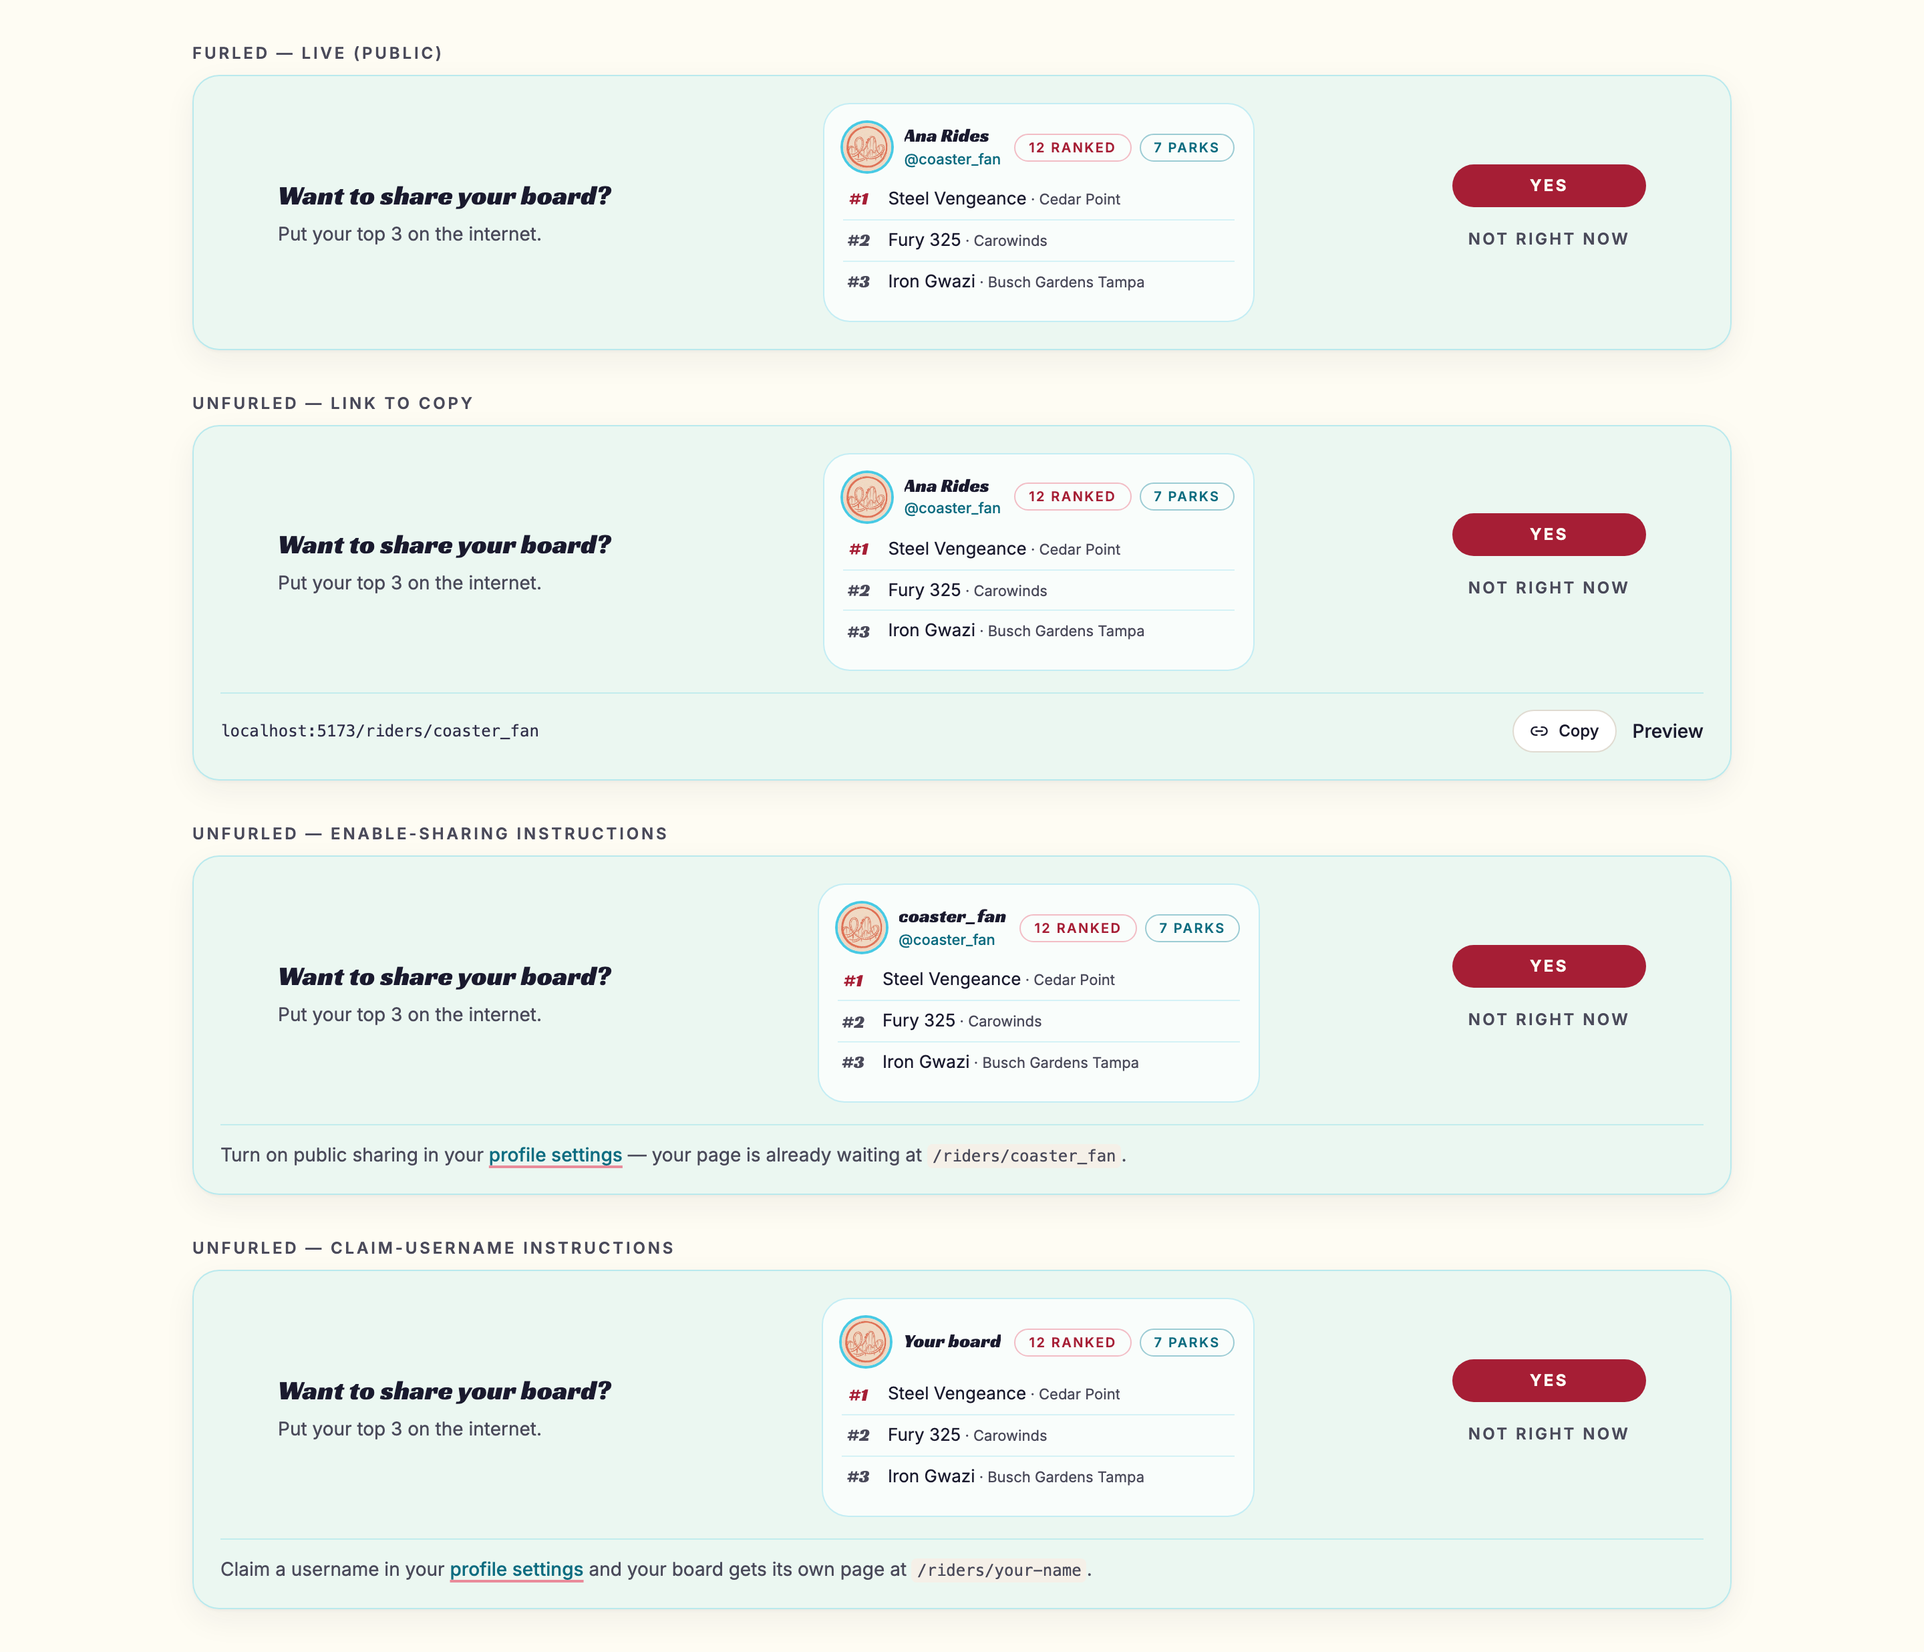
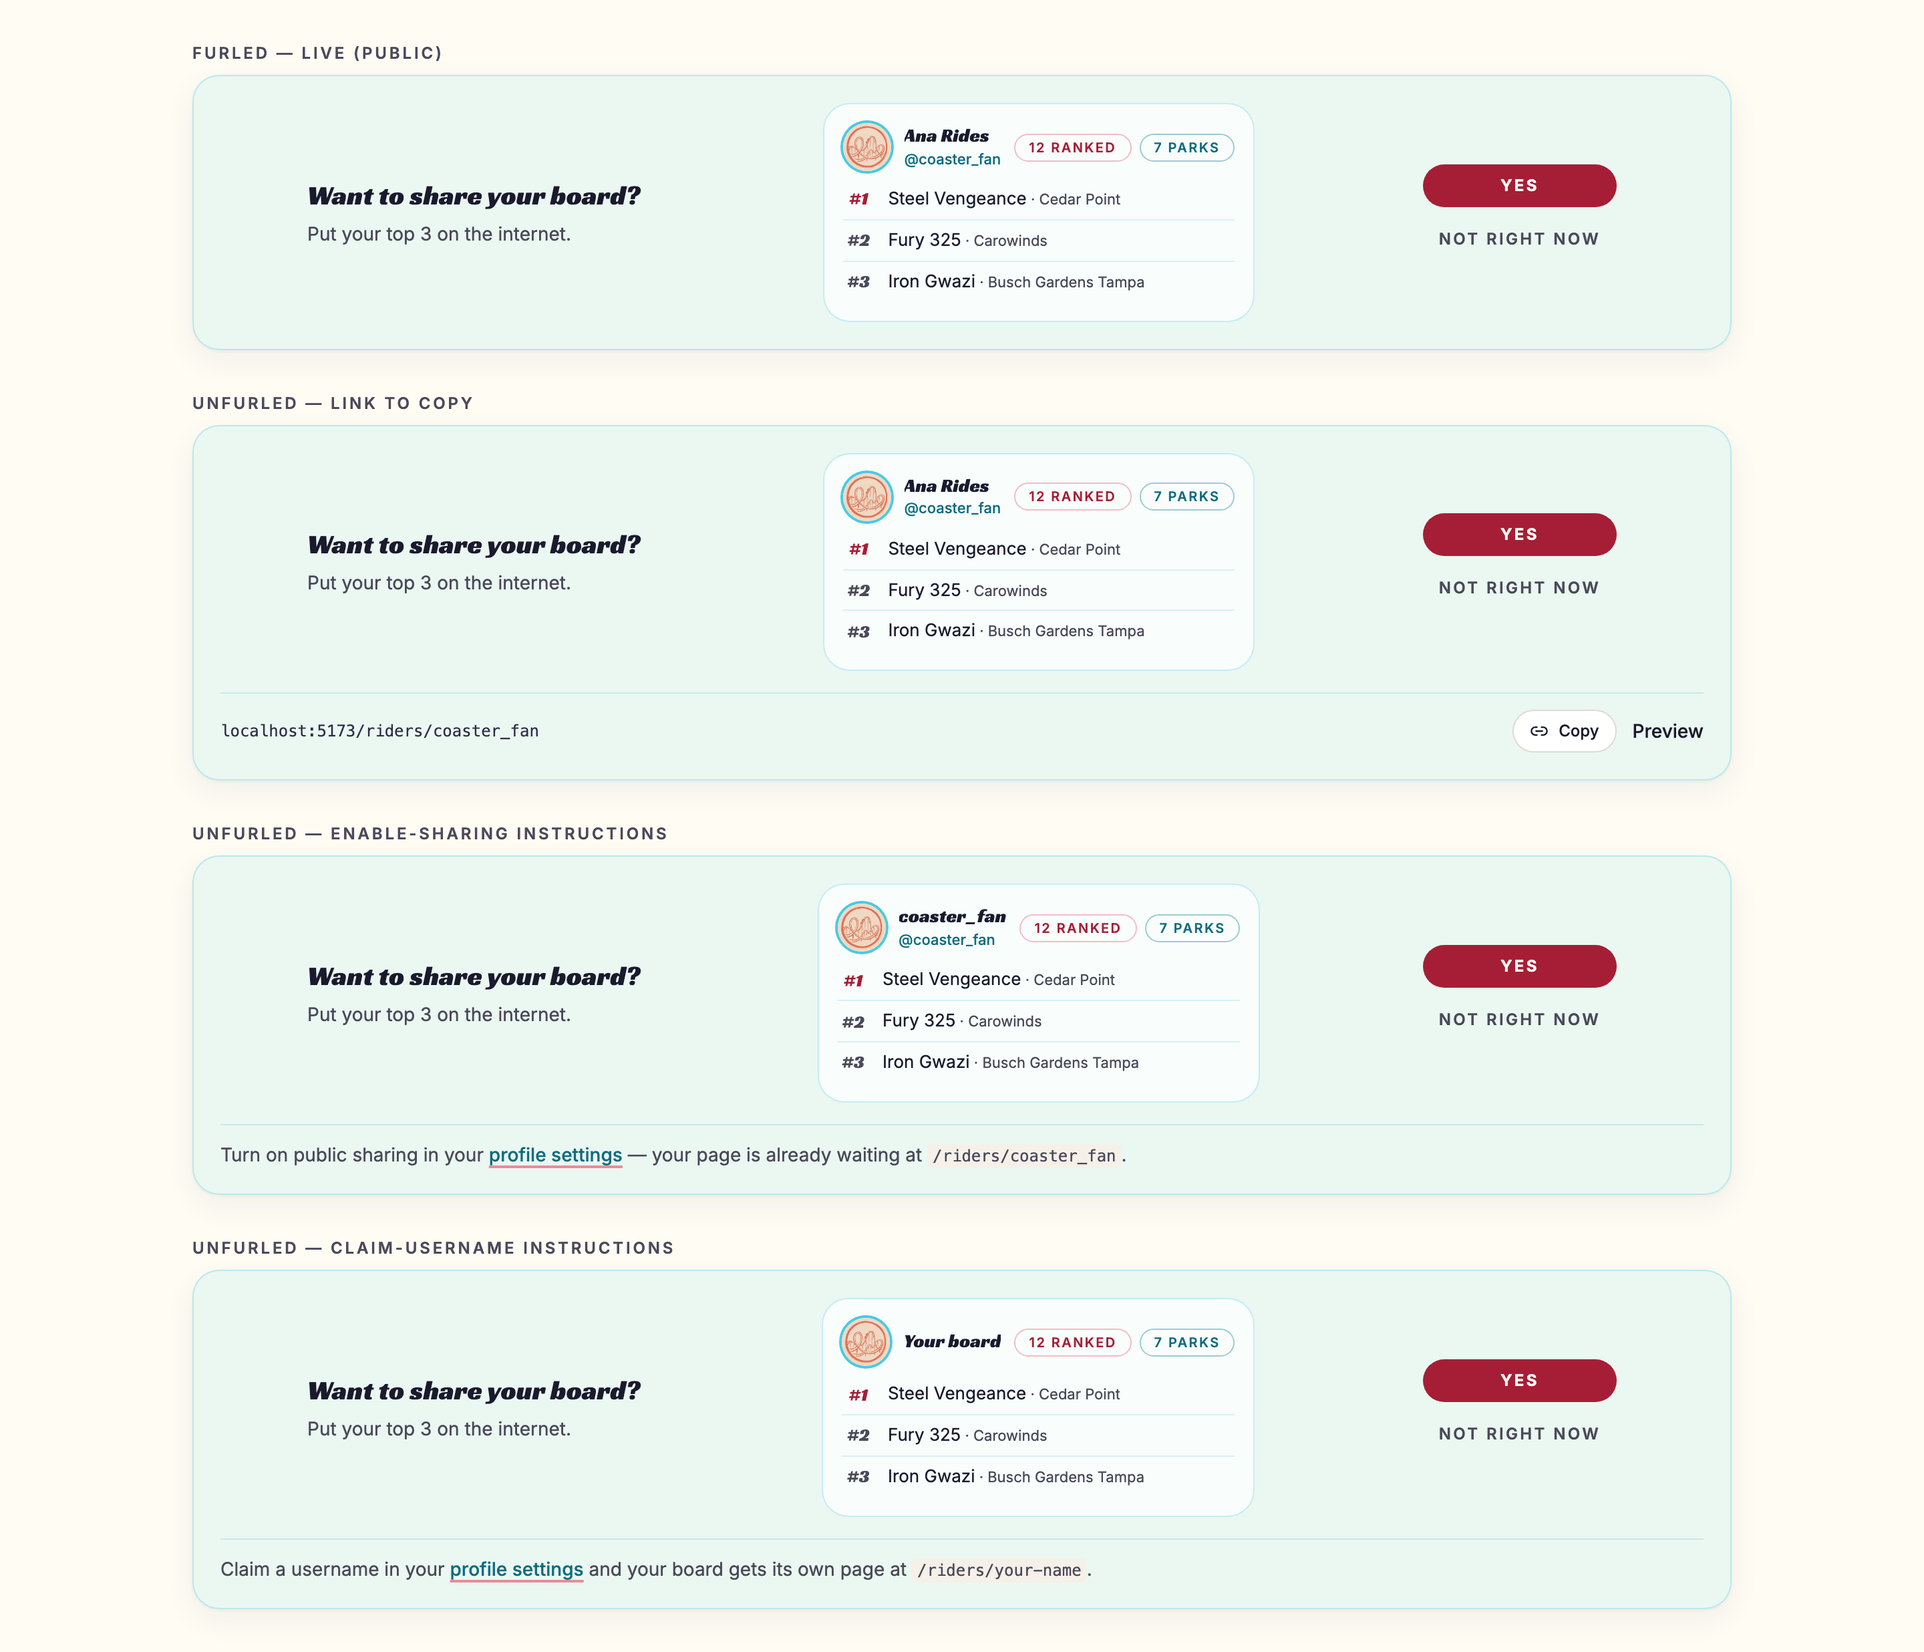
style: tighten share-nudge column gutters ~15%
Cluster cap max-w-5xl (1024px) -> max-w-[980px]: measured gutters go
148px -> 126px each, still perfectly even. Mobile unaffected (cap can't
bind below 980px viewports). Preview shots refreshed.

diff --git a/app/src/components/ShareNudgeBanner.tsx b/app/src/components/ShareNudgeBanner.tsx
@@ -66,7 +66,7 @@ export default function ShareNudgeBanner({
           remainder evenly across the two gutters. Columns stay content-width
           (no flex-1 growth) and shrink gracefully below the cap; mobile
           stacks unwrapped and keeps the rows directly on the tint. */}
-      <div className="mx-auto flex w-full max-w-5xl flex-wrap items-center justify-between gap-x-5 gap-y-4">
+      <div className="mx-auto flex w-full max-w-[980px] flex-wrap items-center justify-between gap-x-5 gap-y-4">
         <div className="min-w-0 flex-1 basis-52 sm:w-[260px] sm:flex-none">
           <p className="display-heading text-xl leading-tight text-ink">
             Want to share your board?

diff --git a/docs/PLAN.md b/docs/PLAN.md
@@ -32,7 +32,7 @@ A multi-user webapp where users rank the roller coasters they've ridden, and eve
 | Board meta + homepage rework (2026-09) | `/api/ranking` gains `last_recomputed_at` + `real_user_count` via a new `public_board_meta()` security-definer RPC (aggregate-only, anon-granted like `ranked_user_count()`; source: `cron_execution_logs` success row + profiles minus admins minus synthetic). Homepage: lockup scaled ~12%, TrackLine removed, status line always-rendered with skeletons (CLS slot `min-h-[60vh|65vh]`), gated user count (>50, desktop-only), `Live ●` popunder (hover shows / click pins; `last_recomputed_at` preferred), plain `About` link → `/about` stub, table rework (Country column dropped, GCI/CCI acronyms, white rank circles with display-font accent numerals + ink drop shadow on every rank, muted coral podium ramp 0.05/0.03/0.015, ~5% denser rows desktop+mobile, accent-tint rounded score pill, both layouts CSS-gated). Remaining open call: hero line placement A/B (mocked on the design board `/design.html`, dev-only). | Worker holds only the anon key (profiles/cron logs are RLS-locked; `coaster_ratings.updated_at` is first-insert stale), so one aggregate RPC is the only clean source; UI rework tracked as the homepage punchlist (§1–§8), final calls decided 2026-09-05. |
 | Full About + FAQ pages (2026-09) | `/about` rewritten from stub to full copy: open-source framing, layperson Bradley–Terry explainer (head-to-heads not stars, 100 = community average, per-rider influence normalization), personal backstory (VoteCoasters credit + link, "weekend project" gag), contribution asks (code/data/riding), `— pandeiro` handle sign-off. New `/faq` route (8 starter Q&As) linked from About + footer. Opt-in math disclosures (`MathDisclosure` component): collapsed by default, first open lazy-`import()`s **KaTeX** (+CSS/fonts) via a dynamic chunk — zero main-bundle cost; two inserts cover the BT probability model + MM update with anchor/λ rationale (from `packages/bt/src/mm.ts`) and the per-user weighting `w = 1/(n(n-1)/2)`; display equations sit in boxed rows that stack via `aligned` so 390px viewports don't clip. Tests assert collapsed default + lazy KaTeX render. | Normies get the plain-English story; the math is one sigma-pill click away. KaTeX over MathJax for bundle weight; disclosure content mirrors the real fit (not a simplified variant) so it can't drift from `packages/bt`. Deeper math treatment stays reserved for a future GH wiki page. |
 | Ranking-milestone share CTAs (2026-09, **removed**) | The 5/10-ranked milestone share CTAs on `/me` (`ShareListCard` + `lib/share-cta.ts`, per-milestone localStorage dismissal) are **scrapped** — `/me` stays a pure ranking surface. Share discovery remains where it belongs: `/me/profile` (URL display + copy link + opt-in toggle; `CopyLinkButton` extracted to its own component). Replaced days later by the idle-settled banner (next row) once the placement was rethought. | Just gets in the way on the primary ranking surface and doesn't drive shares; milestone framing ("5 ranked!") felt gamified-noisy rather than useful. |
-| Share nudge v2: idle-settled banner (2026-09) | A subtle, dismissible banner above the `/me` list — ONE small light accent-blue card (`bg-accent/10`, plain div not `Panel`, whose `bg-surface-bright` would win the cascade) laid out as **three tight columns**: ① the **"Want to share your board?"** question + one-line tagline ("Put your top 3 on the internet."), ② a **condensed skeleton of the rider share page** (cyan-ringed avatar, display-font name, cyan @handle, `N ranked` coral / `N parks` cyan outline pills, top-3 rows single-line with inline park names — park names ride along in the existing `useMyRides` embed via `parks(name, country)`; Racing Sans One `#N` ranks, `#1` coral, #2/#3 muted) in its own outlined sub-card on desktop (`sm:border-accent/30 sm:bg-surface-bright/70`, mobile rows stay directly on the tint) to keep banner height constrained; the three columns form a centered `max-w-5xl` cluster on desktop (`justify-between` + content-width columns) so the two gutters split evenly (~150px each) instead of pooling as one dead zone right of the question, ③ **YES** (crimson pill) / **NOT RIGHT NOW** (ghost, dismisses). YES **unfurls** (animated `animate-unfurl`) a full-width divider row: the rider URL as plain protocol-stripped mono text + Copy (full URL) + Preview when public, else profile-settings instructions ("Turn on public sharing… your page is already waiting at `/riders/{username}`"); the no-username branch stays inside the same unfurl (signup collects a username, but `handle_new_user()` deliberately falls back to `username = NULL` on unique-violation signup races — those users claim later). On mobile only, the banner renders between the page title and the full-width Import list button (flex-wrap ordering), keeping Import adjacent to the search/ranking machinery; desktop keeps Import top-right. Eligibility is ONE server-side RPC, `share_nudge_eligibility()`, called only at the My Coasters mount (never the board or coaster/park detail pages, never a modal on load): `profiles.share_nudge_shown_at IS NULL` AND ranked_count ≥ 5 (floor — nobody's "settled" this early) AND last ranked-ride edit ≥ 48h idle (settled, not mid-session tweaking). The RPC decides AND claims atomically — claim is `UPDATE profiles SET share_nudge_shown_at = now() WHERE id = auth.uid() AND share_nudge_shown_at IS NULL`, returning `found` as `eligible`, so multi-tab/multi-mount races collapse to exactly one banner ever. Dismiss is session-local UI state; no "dismissed" write exists. Data: one nullable column `profiles.share_nudge_shown_at`, written only by the RPC (deliberately kept off the client update-column whitelist). `user_rides.updated_at` was UPDATE-trigger-only (rank changes), leaving imported/once-ranked rows NULL forever → the trigger now stamps INSERTs too, plus a one-time backfill (`update user_rides set updated_at = now() where updated_at is null`) whose `now()` baseline is an honest conservative floor (long-idle lists become eligible ~48h post-deploy, nobody is misclassified as recently active). Client: `useShareNudge` (`staleTime: Infinity` — repeat mounts reuse the session's verdict instead of re-calling the claiming RPC). | The milestone card got in the way; idle ≥48h targets "settled" riders and never interrupts an active session; one-shot + local dismiss keeps it subtle; the single accent-blue card borrows the OG card's composition (identity / top rows / url) at banner scale as a YES-gated preview, so the nudge advertises what sharing actually looks like without occupying the page. SCHEMA.md must be regenerated post-merge (generator reads the live DB). |
+| Share nudge v2: idle-settled banner (2026-09) | A subtle, dismissible banner above the `/me` list — ONE small light accent-blue card (`bg-accent/10`, plain div not `Panel`, whose `bg-surface-bright` would win the cascade) laid out as **three tight columns**: ① the **"Want to share your board?"** question + one-line tagline ("Put your top 3 on the internet."), ② a **condensed skeleton of the rider share page** (cyan-ringed avatar, display-font name, cyan @handle, `N ranked` coral / `N parks` cyan outline pills, top-3 rows single-line with inline park names — park names ride along in the existing `useMyRides` embed via `parks(name, country)`; Racing Sans One `#N` ranks, `#1` coral, #2/#3 muted) in its own outlined sub-card on desktop (`sm:border-accent/30 sm:bg-surface-bright/70`, mobile rows stay directly on the tint) to keep banner height constrained; the three columns form a centered `max-w-5xl` cluster on desktop (`justify-between` + content-width columns) so the two gutters split evenly (~125px each) instead of pooling as one dead zone right of the question, ③ **YES** (crimson pill) / **NOT RIGHT NOW** (ghost, dismisses). YES **unfurls** (animated `animate-unfurl`) a full-width divider row: the rider URL as plain protocol-stripped mono text + Copy (full URL) + Preview when public, else profile-settings instructions ("Turn on public sharing… your page is already waiting at `/riders/{username}`"); the no-username branch stays inside the same unfurl (signup collects a username, but `handle_new_user()` deliberately falls back to `username = NULL` on unique-violation signup races — those users claim later). On mobile only, the banner renders between the page title and the full-width Import list button (flex-wrap ordering), keeping Import adjacent to the search/ranking machinery; desktop keeps Import top-right. Eligibility is ONE server-side RPC, `share_nudge_eligibility()`, called only at the My Coasters mount (never the board or coaster/park detail pages, never a modal on load): `profiles.share_nudge_shown_at IS NULL` AND ranked_count ≥ 5 (floor — nobody's "settled" this early) AND last ranked-ride edit ≥ 48h idle (settled, not mid-session tweaking). The RPC decides AND claims atomically — claim is `UPDATE profiles SET share_nudge_shown_at = now() WHERE id = auth.uid() AND share_nudge_shown_at IS NULL`, returning `found` as `eligible`, so multi-tab/multi-mount races collapse to exactly one banner ever. Dismiss is session-local UI state; no "dismissed" write exists. Data: one nullable column `profiles.share_nudge_shown_at`, written only by the RPC (deliberately kept off the client update-column whitelist). `user_rides.updated_at` was UPDATE-trigger-only (rank changes), leaving imported/once-ranked rows NULL forever → the trigger now stamps INSERTs too, plus a one-time backfill (`update user_rides set updated_at = now() where updated_at is null`) whose `now()` baseline is an honest conservative floor (long-idle lists become eligible ~48h post-deploy, nobody is misclassified as recently active). Client: `useShareNudge` (`staleTime: Infinity` — repeat mounts reuse the session's verdict instead of re-calling the claiming RPC). | The milestone card got in the way; idle ≥48h targets "settled" riders and never interrupts an active session; one-shot + local dismiss keeps it subtle; the single accent-blue card borrows the OG card's composition (identity / top rows / url) at banner scale as a YES-gated preview, so the nudge advertises what sharing actually looks like without occupying the page. SCHEMA.md must be regenerated post-merge (generator reads the live DB). |
 | Email stack: Resend SMTP + branded templates (2026-09) | Auth email leaves via **Resend SMTP** (Supabase Auth custom SMTP; sender `ops@coasterrank.app` "CoasterRank Ops"; free tier 100/day). Branded, text-first HTML templates for **confirm-signup / magic-link+OTP / reset-password / invite** live in **`supabase/email-templates/`** as the reviewed source of truth and are applied with `scripts` `sync-email-templates` (Management API `PATCH config/auth` of **only** `mailer_subjects_*` + `mailer_templates_*_content`; dry-run default, `--apply` verifies by re-read). Design system: table layout, inline CSS only, cream canvas + ink text + cyan CTA pill + coral lap-bar accent, single small mark image (alt-text graceful when Gmail blocks images), hidden preheaders, plain-link fallback, reply-friendly footer. SPA wiring: `/forgot-password` → `/reset-password` (recovery round-trip preserves `?next` deep links), "Email me a sign-in link" with 8-digit code entry (`signInWithOtp` + `verifyOtp`), invited banner on `/login?invited=1`, profile set/change-password panel; **admin invite** via `admin-users` POST `{action:'invite'}` (fixed prod redirect; GoTrue creates the unconfirmed user, trigger bootstraps the profile — invitees start passwordless). Expiry copy coupled to dashboard `mailer_otp_exp=3600` / `mailer_otp_length=8`. Deferred: submission-reviewed notifications, digests, Resend bounce/complaint webhooks, non-auth transactional mail via Resend API. **User-to-user invites designed but deferred**: `invites` table (inviter, invitee email, accepted_at, invitee_id) + `invite_within_cap()` (~5 pending + modest lifetime cap, mirroring `submission_within_cap()`), confirmed-email gate on the inviter, fixed email copy (no custom message), admin visibility + cancel (= delete the unconfirmed row), kill-switch secret, `profiles.referred_by` fed from invite metadata via `handle_new_user()`. Rationale: the abuse risk is not in-app spam — invites email *third parties from coasterrank.app*, and invite abuse burns the sender reputation ALL auth email rides on (Resend pauses ~0.08% complaints; the free tier's 100/day is shared with auth email). | Default Supabase emails are rate-limited (2/hr) and unbranded; Resend free tier + validated domain gives deliverability + trust. Templates in git = reviewable diffs instead of dashboard click-ops (config isn't migratable). Passwordless sign-in makes invited accounts workable from day one and kills most "forgot password" pain; reset flow still required as the escape hatch. |
 
 ## 3. Architecture

diff --git a/docs/previews/share-nudge/README.md b/docs/previews/share-nudge/README.md
@@ -7,7 +7,7 @@ Screenshots for the idle-settled share nudge (PLAN §2 "Share nudge v2"), captur
 
 | File | Shows |
 | --- | --- |
-| `share-nudge-states-desktop.png` | The banner's states, desktop: furled (three columns — "Want to share your board?" / condensed share-page skeleton / YES + NOT RIGHT NOW), then YES unfurled three ways — the rider link (copy + preview), enable-sharing instructions, claim-username instructions. One light accent-blue card; the three columns sit in a centered max-w-5xl cluster with even ~150px gutters (question / outlined skeleton sub-card / buttons), top-3 rows carrying Racing Sans One ranks (#1 coral). |
+| `share-nudge-states-desktop.png` | The banner's states, desktop: furled (three columns — "Want to share your board?" / condensed share-page skeleton / YES + NOT RIGHT NOW), then YES unfurled three ways — the rider link (copy + preview), enable-sharing instructions, claim-username instructions. One light accent-blue card; the three columns sit in a centered max-w-5xl cluster with even ~125px gutters (question / outlined skeleton sub-card / buttons), top-3 rows carrying Racing Sans One ranks (#1 coral). |
 | `share-nudge-states-mobile.png` | Same states at 390px — columns stack (question, skeleton, button row, unfurl) full-width. |
 | `share-nudge-placement-desktop.png` | The furled banner in context on `/me`, below the header row (Import list stays top-right). |
 | `share-nudge-placement-mobile.png` | Same placement at 390px — the banner sits above the full-width Import list button, keeping Import adjacent to the search bar and ranking table. |
